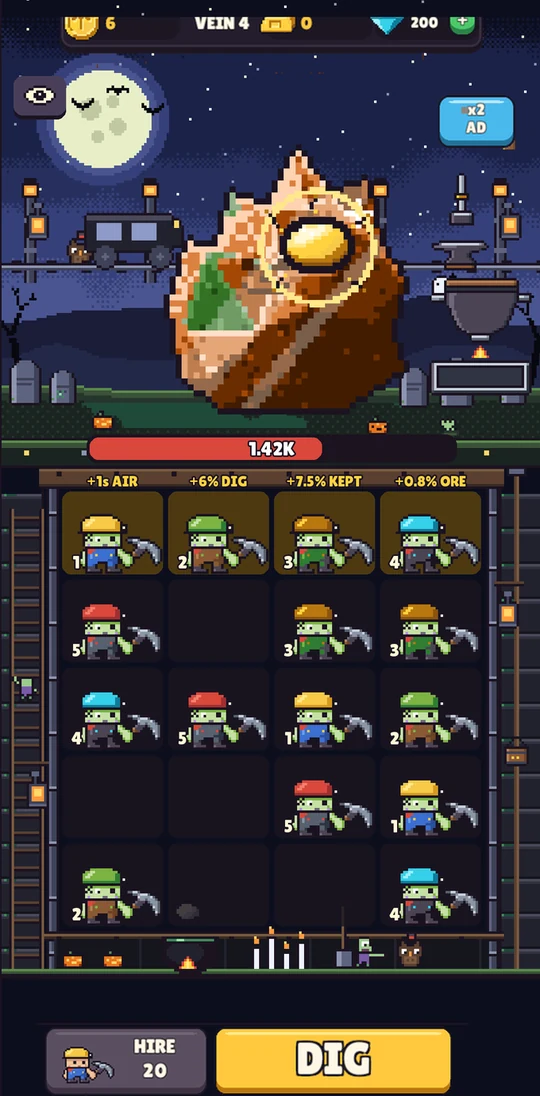
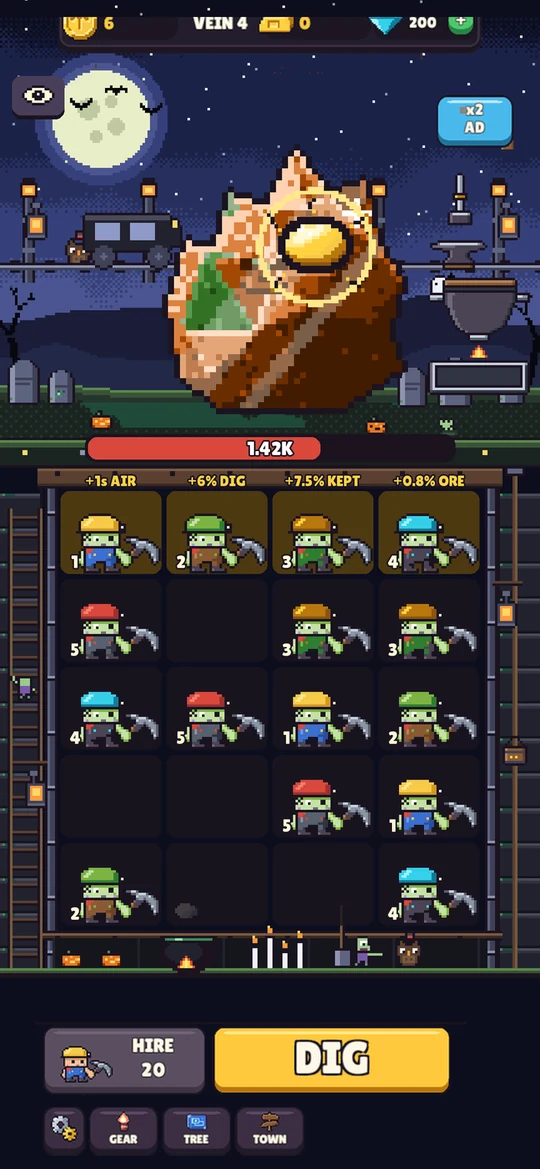
Use the clean theme shots and the crews' real descriptions

diff --git a/src/content.ts b/src/content.ts
@@ -157,9 +157,9 @@ export const themes = {
   },
   moreTitle: 'More looks',
   more: [
-    { id: 'dino', name: 'Dino Dig', line: 'Volcanoes, ferns and a very large dinosaur.', shot: 'theme-dino', alt: 'The Dino Dig camp: a volcano, palm trees and a long-necked dinosaur around a golden rock, with a crew of miners on the board.', height: 1096 },
-    { id: 'pyramid', name: 'Pyramid Gold', line: 'Pyramids, camels and a desert sunset.', shot: 'theme-pyramid', alt: 'The Pyramid Gold camp: pyramids, a camel and palm trees at sunset around a sandy rock, with a bandaged crew of miners on the board.', height: 1096 },
-    { id: 'graveyard', name: 'Graveyard Shift', line: 'A full moon, a creepy hearse and a crew of zombies.', shot: 'theme-graveyard', alt: 'The Graveyard Shift camp: a full moon, a hearse and gravestones around a mossy rock, with a crew of green zombie miners on the board.', height: 1096 },
+    { id: 'dino', name: 'Dino Dig', line: 'A jungle valley, a smoking volcano and a caveman crew.', shot: 'theme-dino', alt: 'The Dino Dig camp: a jungle valley with a smoking volcano and a herd on the hills around a golden rock, with a caveman crew on the board.', height: 1169 },
+    { id: 'pyramid', name: 'Pyramid Gold', line: 'Pyramids at dusk, a camel caravan and a mummy crew.', shot: 'theme-pyramid', alt: 'The Pyramid Gold camp: pyramids at dusk and a camel caravan on the dunes around a sandy rock, with a mummy crew on the board.', height: 1169 },
+    { id: 'graveyard', name: 'Graveyard Shift', line: 'A moonlit graveyard, a friendly ghost and a zombie crew.', shot: 'theme-graveyard', alt: 'The Graveyard Shift camp: a moonlit graveyard with bats and a friendly ghost around a mossy rock, with a zombie crew on the board.', height: 1169 },
   ] as Look[],
 }
 
